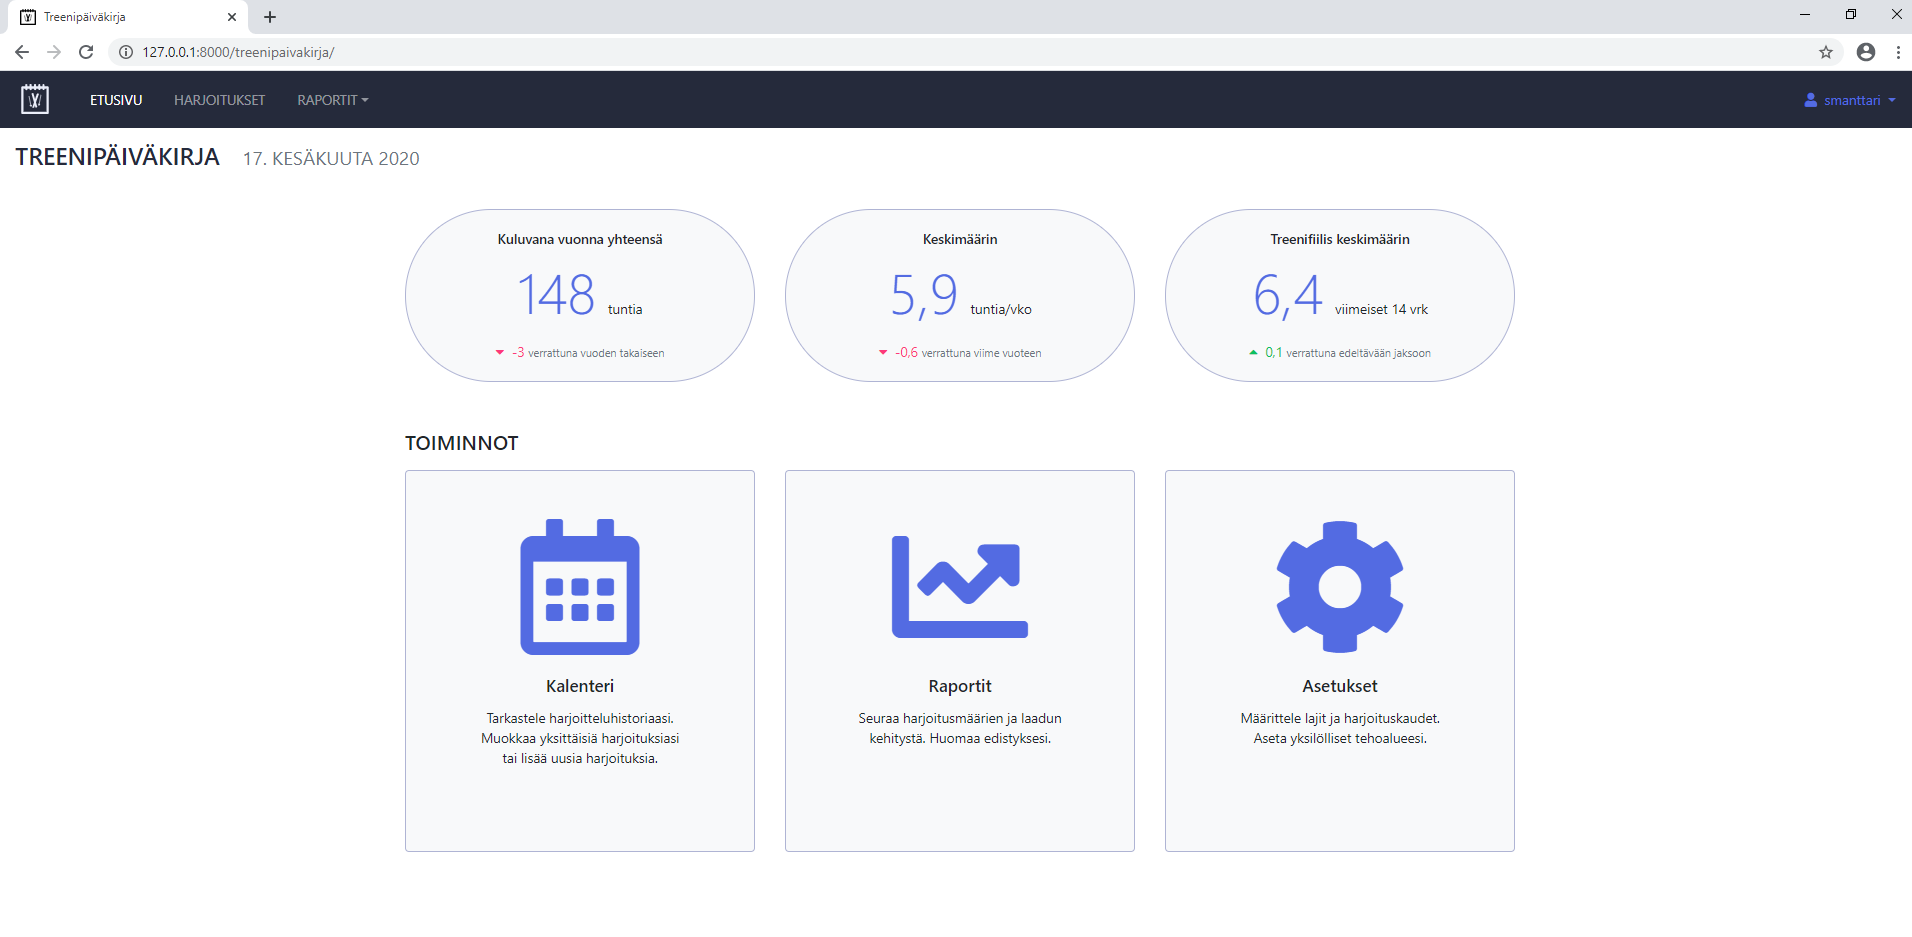
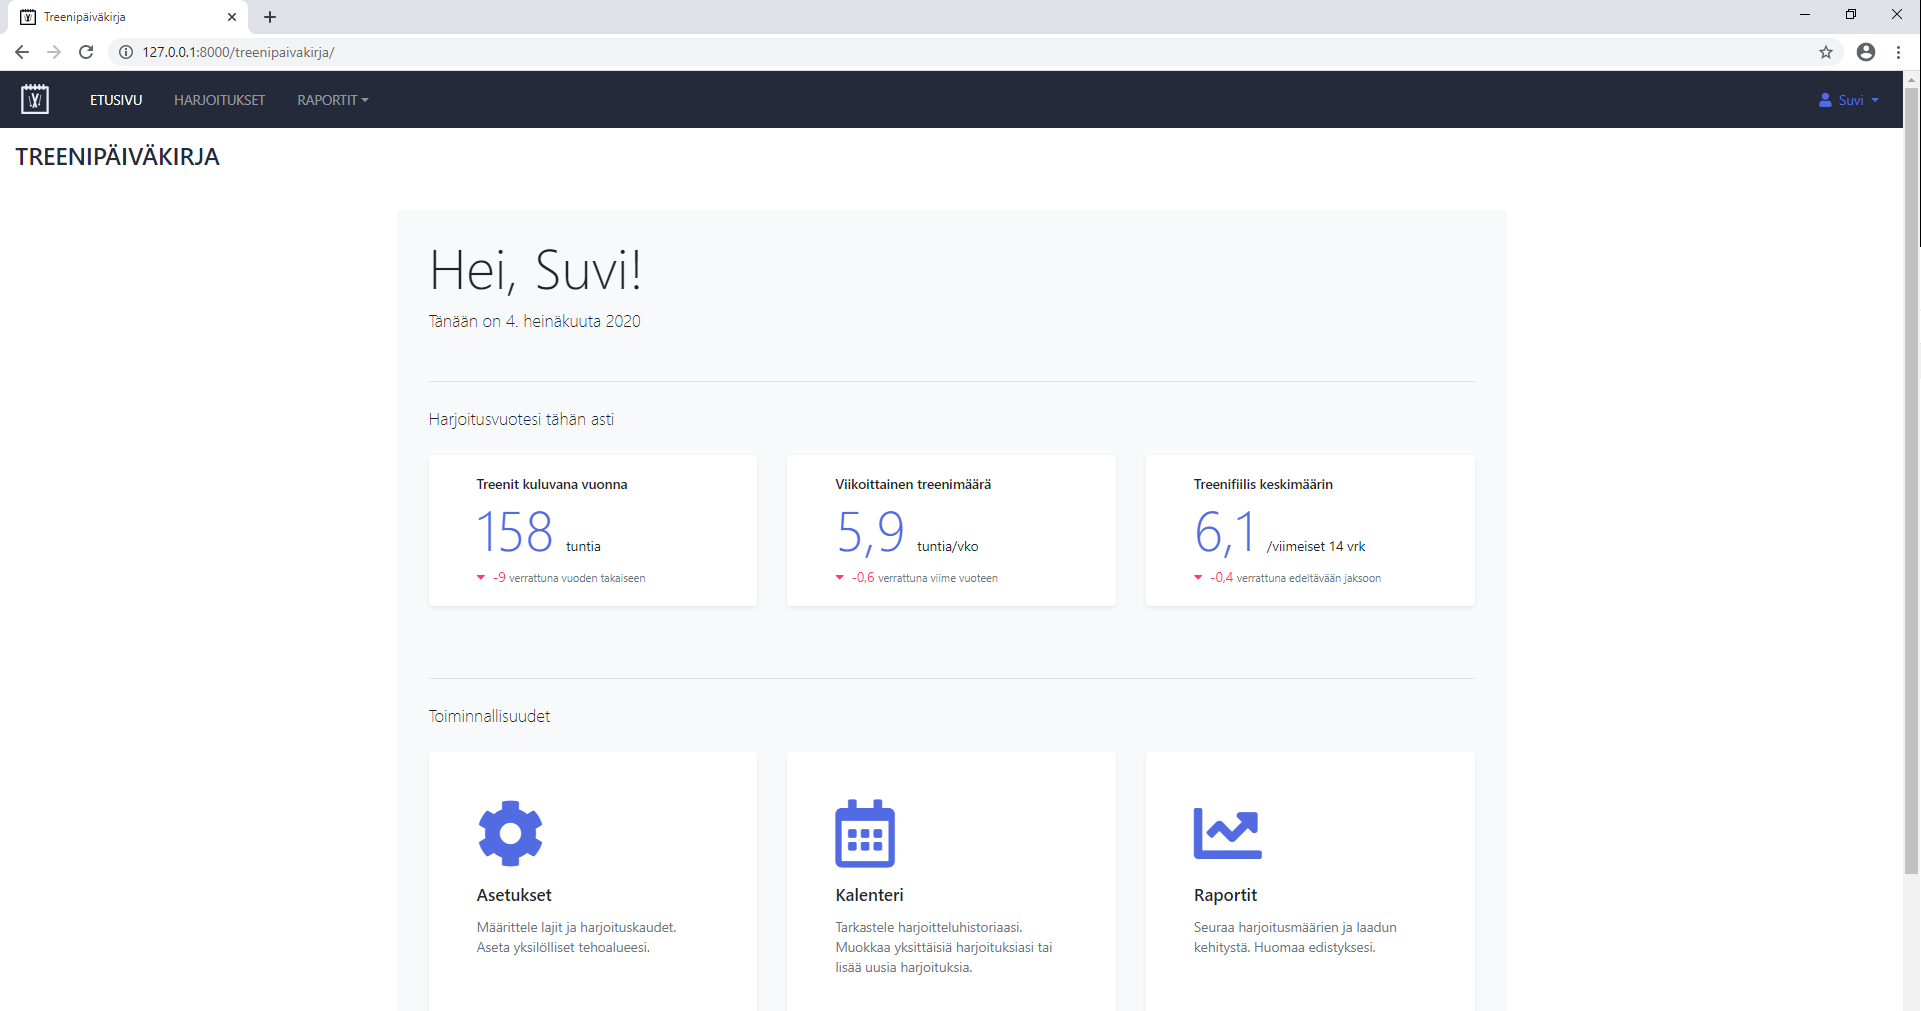
Front page layout

diff --git a/treenit/treenipaivakirja/templates/index.html b/treenit/treenipaivakirja/templates/index.html
@@ -9,115 +9,120 @@
 
 
 {% block header %}TREENIPÄIVÄKIRJA{% endblock %}
-{% block secondary-header %}{{current_day}}{% endblock %}
+{% block secondary-header %}{% endblock %}
 
 {% block content %}
 
 <div class="container mb-5 mt-3">
-  
-  <div class="card-deck">
-    <div class="card text-center bg-light border-info rounded-pill">
-      <div class="card-body">
-        <h6 class="card-title">Kuluvana vuonna yhteensä</h6>
-        <ul class="list-inline">
-          <li class="list-inline-item"><h1 class="card-text display-4 text-primary">{{ hours_current_year }}</h1></li>
-          <li class="list-inline-item">tuntia</li> 
-        </ul>
-        {% if hours_change > 0 %}
-        <p class="card-text text-success">
-          <i class="fas fa-caret-up mr-1"></i>
-          {{ hours_change }}
-        {% else %} 
-        <p class="card-text text-danger">
-          <i class="fas fa-caret-down mr-1"></i>
-          {{ hours_change }}
-        {% endif %}
-          <small class="text-muted">verrattuna vuoden takaiseen</small>
-        </p>
-      </div>
-    </div>
-    <div class="card text-center bg-light border-info rounded-pill">
-      <div class="card-body">
-        <h6 class="card-title">Keskimäärin</h6>
-        <ul class="list-inline">
-          <li class="list-inline-item"><h1 class="card-text display-4 text-primary">{{ hours_per_week_current_year }}</h1></li>
-          <li class="list-inline-item">tuntia/vko</li> 
-        </ul>
-        {% if hours_per_week_change > 0 %}
-        <p class="card-text text-success">
-          <i class="fas fa-caret-up mr-1"></i>
-          {{ hours_per_week_change }}
-        {% else %} 
-        <p class="card-text text-danger">
-          <i class="fas fa-caret-down mr-1"></i>
-          {{ hours_per_week_change }}
-        {% endif %}
-          <small class="text-muted">verrattuna viime vuoteen</small>
-        </p>
-      </div>
-    </div>
-    <div class="card text-center bg-light border-info rounded-pill">
-      <div class="card-body">
-        <h6 class="card-title">Treenifiilis keskimäärin</h6>
-        <ul class="list-inline">
-            <li class="list-inline-item"><h1 class="card-text display-4 text-primary">{{ feeling_current_period }}</h1></li>
-            <li class="list-inline-item">viimeiset 14 vrk</li> 
+
+  <div class="jumbotron bg-light pt-4 pb-4">
+    <h1 class="display-4">Hei, {% if user.first_name %}{{ user.first_name}}{% else %}{{ user.username }}{% endif %}!</h1>
+    <p class="lead">Tänään on {{current_day}}</p>
+
+    <hr class="mt-5 mb-4">
+
+    <p class="lead mb-4">Harjoitusvuotesi tähän asti</p>  
+    <div class="card-deck pb-4">
+      <div class="card shadow-sm border-0 bg-white rounded">
+        <div class="card-body pr-5 pl-5">
+          <h6 class="card-title mb-1">Treenit kuluvana vuonna</h6>
+          <ul class="list-inline mb-1">
+            <li class="list-inline-item"><h1 class="card-text display-4 text-primary">{{ hours_current_year }}</h1></li>
+            <li class="list-inline-item">tuntia</li> 
           </ul>
-          {% if feeling_change > 0 %}
+          {% if hours_change > 0 %}
           <p class="card-text text-success">
             <i class="fas fa-caret-up mr-1"></i>
-            {{ feeling_change }}
+            {{ hours_change }}
           {% else %} 
           <p class="card-text text-danger">
             <i class="fas fa-caret-down mr-1"></i>
-            {{ feeling_change }}
+            {{ hours_change }}
           {% endif %}
-          <small class="text-muted">verrattuna edeltävään jaksoon</small>
-        </p>
+            <small class="text-muted">verrattuna vuoden takaiseen</small>
+          </p>
+        </div>
+      </div>
+      <div class="card shadow-sm border-0 bg-white rounded">
+        <div class="card-body pr-5 pl-5">
+          <h6 class="card-title mb-1">Viikoittainen treenimäärä</h6>
+          <ul class="list-inline mb-1">
+            <li class="list-inline-item"><h1 class="card-text display-4 text-primary">{{ hours_per_week_current_year }}</h1></li>
+            <li class="list-inline-item">tuntia/vko</li> 
+          </ul>
+          {% if hours_per_week_change > 0 %}
+          <p class="card-text text-success">
+            <i class="fas fa-caret-up mr-1"></i>
+            {{ hours_per_week_change }}
+          {% else %} 
+          <p class="card-text text-danger">
+            <i class="fas fa-caret-down mr-1"></i>
+            {{ hours_per_week_change }}
+          {% endif %}
+            <small class="text-muted">verrattuna viime vuoteen</small>
+          </p>
+        </div>
+      </div>
+      <div class="card shadow-sm border-0 bg-white rounded">
+        <div class="card-body pr-5 pl-5">
+          <h6 class="card-title mb-1">Treenifiilis keskimäärin</h6>
+          <ul class="list-inline mb-1">
+              <li class="list-inline-item"><h1 class="card-text display-4 text-primary">{{ feeling_current_period }}</h1></li>
+              <li class="list-inline-item">/viimeiset 14 vrk</li> 
+            </ul>
+            {% if feeling_change > 0 %}
+            <p class="card-text text-success">
+              <i class="fas fa-caret-up mr-1"></i>
+              {{ feeling_change }}
+            {% else %} 
+            <p class="card-text text-danger">
+              <i class="fas fa-caret-down mr-1"></i>
+              {{ feeling_change }}
+            {% endif %}
+            <small class="text-muted">verrattuna edeltävään jaksoon</small>
+          </p>
+        </div>
       </div>
     </div>
-  </div>
+
+    <hr class="mt-5 mb-4">
+    
+    <p class="lead mb-4">Toiminnallisuudet</p>
+    <div class="card-deck pb-4">
+      <div class="card shadow-sm border-0 bg-white rounded pb-5">
+        <div class="card-body p-5">
+          <a id="settings_icon" href="{% url 'settings' %}">
+            <i class="fas fa-cog fa-5x"></i>
+          </a>
+          <h5 class="card-title mt-3">Asetukset</h5>
+          <p class="card-text text-muted">Määrittele lajit ja harjoituskaudet. Aseta yksilölliset tehoalueesi.</p>
+        </div>
+      </div>
+      <div class="card shadow-sm border-0 bg-white rounded">
+        <div class="card-body p-5">
+          <a id="calendar_icon" href="{% url 'trainings' %}">
+            <i class="far fa-calendar-alt fa-5x"></i>
+          </a>
+          <h5 class="card-title mt-3">Kalenteri</h5>
+          <p class="card-text text-muted">Tarkastele harjoitteluhistoriaasi. Muokkaa yksittäisiä harjoituksiasi tai lisää uusia harjoituksia.</p>
+        </div>
+      </div>
+      <div class="card shadow-sm border-0 bg-white rounded">
+        <div class="card-body p-5">
+          <a id="chart_icon" href="{% url 'reports_amounts' %}">
+            <i class="fas fa-chart-line fa-5x"></i>
+          </a>
+          <h5 class="card-title mt-3">Raportit</h5>
+          <p class="card-text text-muted">Seuraa harjoitusmäärien ja laadun kehitystä. Huomaa edistyksesi.</p>
+        </div>
+      </div>
+    </div>
+    
+    </div>
 
 </div>
 
-<div class="container mt-3">
 
-  <h4 class="mb-3">TOIMINNOT</h4>
-
-  <div class="card-deck">
-    <div class="card text-center bg-light p-5 border-info">
-      <a id="calendar_icon" href="{% url 'trainings' %}">
-        <i class="far fa-calendar-alt fa-10x"></i>
-      </a>
-      <div class="card-body">
-        <h5 class="card-title">Kalenteri</h5>
-        <p class="card-text">Tarkastele harjoitteluhistoriaasi. Muokkaa yksittäisiä harjoituksiasi tai lisää uusia harjoituksia.</p>
-        <p class="card-text"><small class="text-muted"></small></p>
-      </div>
-    </div>
-    <div class="card text-center bg-light p-5 border-info">
-      <a id="chart_icon" href="{% url 'reports_amounts' %}">
-        <i class="fas fa-chart-line fa-10x"></i>
-      </a>
-      <div class="card-body">
-        <h5 class="card-title">Raportit</h5>
-        <p class="card-text">Seuraa harjoitusmäärien ja laadun kehitystä. Huomaa edistyksesi.</p>
-        <p class="card-text"><small class="text-muted"></small></p>
-      </div>
-    </div>
-    <div class="card text-center bg-light p-5 border-info">
-      <a id="settings_icon" href="{% url 'settings' %}">
-        <i class="fas fa-cog fa-10x"></i>
-      </a>
-      <div class="card-body">
-        <h5 class="card-title">Asetukset</h5>
-        <p class="card-text">Määrittele lajit ja harjoituskaudet. Aseta yksilölliset tehoalueesi.</p>
-        <p class="card-text"><small class="text-muted"></small></p>
-      </div>
-    </div>
-  </div>
-
-</div>
 
 <script>
 

diff --git a/README.md b/README.md
@@ -1,4 +1,4 @@
-# Training Diary #
+# Training App #
 
 Web application for recording and analyzing trainings.
 
@@ -38,10 +38,6 @@ Open web-browser (preferred Chrome) and go to
 http://127.0.0.1:8000/treenipaivakirja/
 ````
 
-Register a new user.
-
-![login](./img/login.png)
-
 ## Features ##
 
 ![features](./img/features.png)
@@ -68,6 +64,6 @@ Register a new user.
 
 ### Personalise settings
 
-* Sports and training zones can be customized to each user
+* Sports, training zones and seasons can be customized to each user
 
 ![settings](./img/settings.png)
